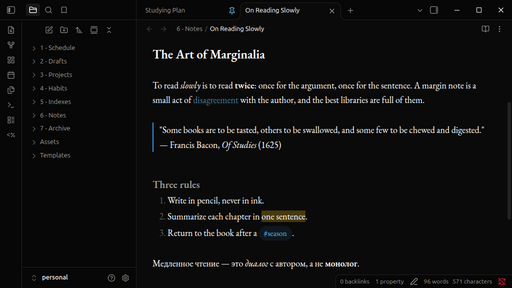
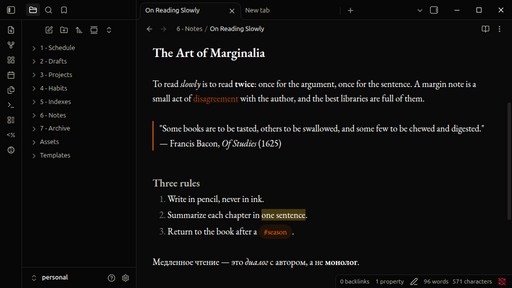
Release 0.1.1: burnt-orange accent and brighter text
- Accent hue shifts from amber (35) to burnt orange (20)
- Faint and muted text greys move one step lighter for better contrast
- README and theme.css comments now name the burnt-orange accent
- Screenshot retaken with the new colors
- Version bumped to 0.1.1

diff --git a/theme.css b/theme.css
@@ -40,10 +40,11 @@ body {
   --color-base-30: #232221;   /* hairline borders */
   --color-base-35: #2A2928;
   --color-base-40: #363533;
+
   /* Text */
-  --color-base-50: #5E5D59;   /* faint */
-  --color-base-60: #7A7873;
-  --color-base-70: #9C9A94;   /* muted */
+  --color-base-50: #7A7873;   /* faint */
+  --color-base-60: #9C9A94;
+  --color-base-70: #BEBCB6;   /* muted */
   --color-base-100: #FFFFFF;  /* normal: plain white */
 
   --bold-color: #FFFFFF;
@@ -51,10 +52,10 @@ body {
   --h5-color: var(--color-base-70);
   --hr-color: var(--color-base-40);
 
-  /* Accent: amber orange */
-  --accent-h: 35;
-  --accent-s: 95%;
-  --accent-l: 45%;
+  /* Accent: burnt orange */
+  --accent-h: 20;
+  --accent-s: 100%;
+  --accent-l: 39%;
 
   /* Flexoki accent palette */
   --color-red-rgb: 209, 77, 65;

diff --git a/README.md b/README.md
@@ -9,7 +9,7 @@ A near-black [Obsidian](https://obsidian.md) theme set in **EB Garamond**. Your 
 - **EB Garamond** for notes, titles and headings, bundled inside the theme. Nothing to install, and it works offline.
 - Full **Latin and Cyrillic** support, with variable weights from regular to extra-bold and a true italic.
 - A **near-black** background, with sidebars a shade darker than the editor and soft hairline borders.
-- An **amber accent** and the [Flexoki](https://stephango.com/flexoki) palette for colored text, callouts and highlights.
+- A **burnt-orange accent** and the [Flexoki](https://stephango.com/flexoki) palette for colored text, callouts and highlights.
 - The interface and code blocks keep Obsidian's default fonts, so the app stays crisp and familiar.
 
 > [!note]
